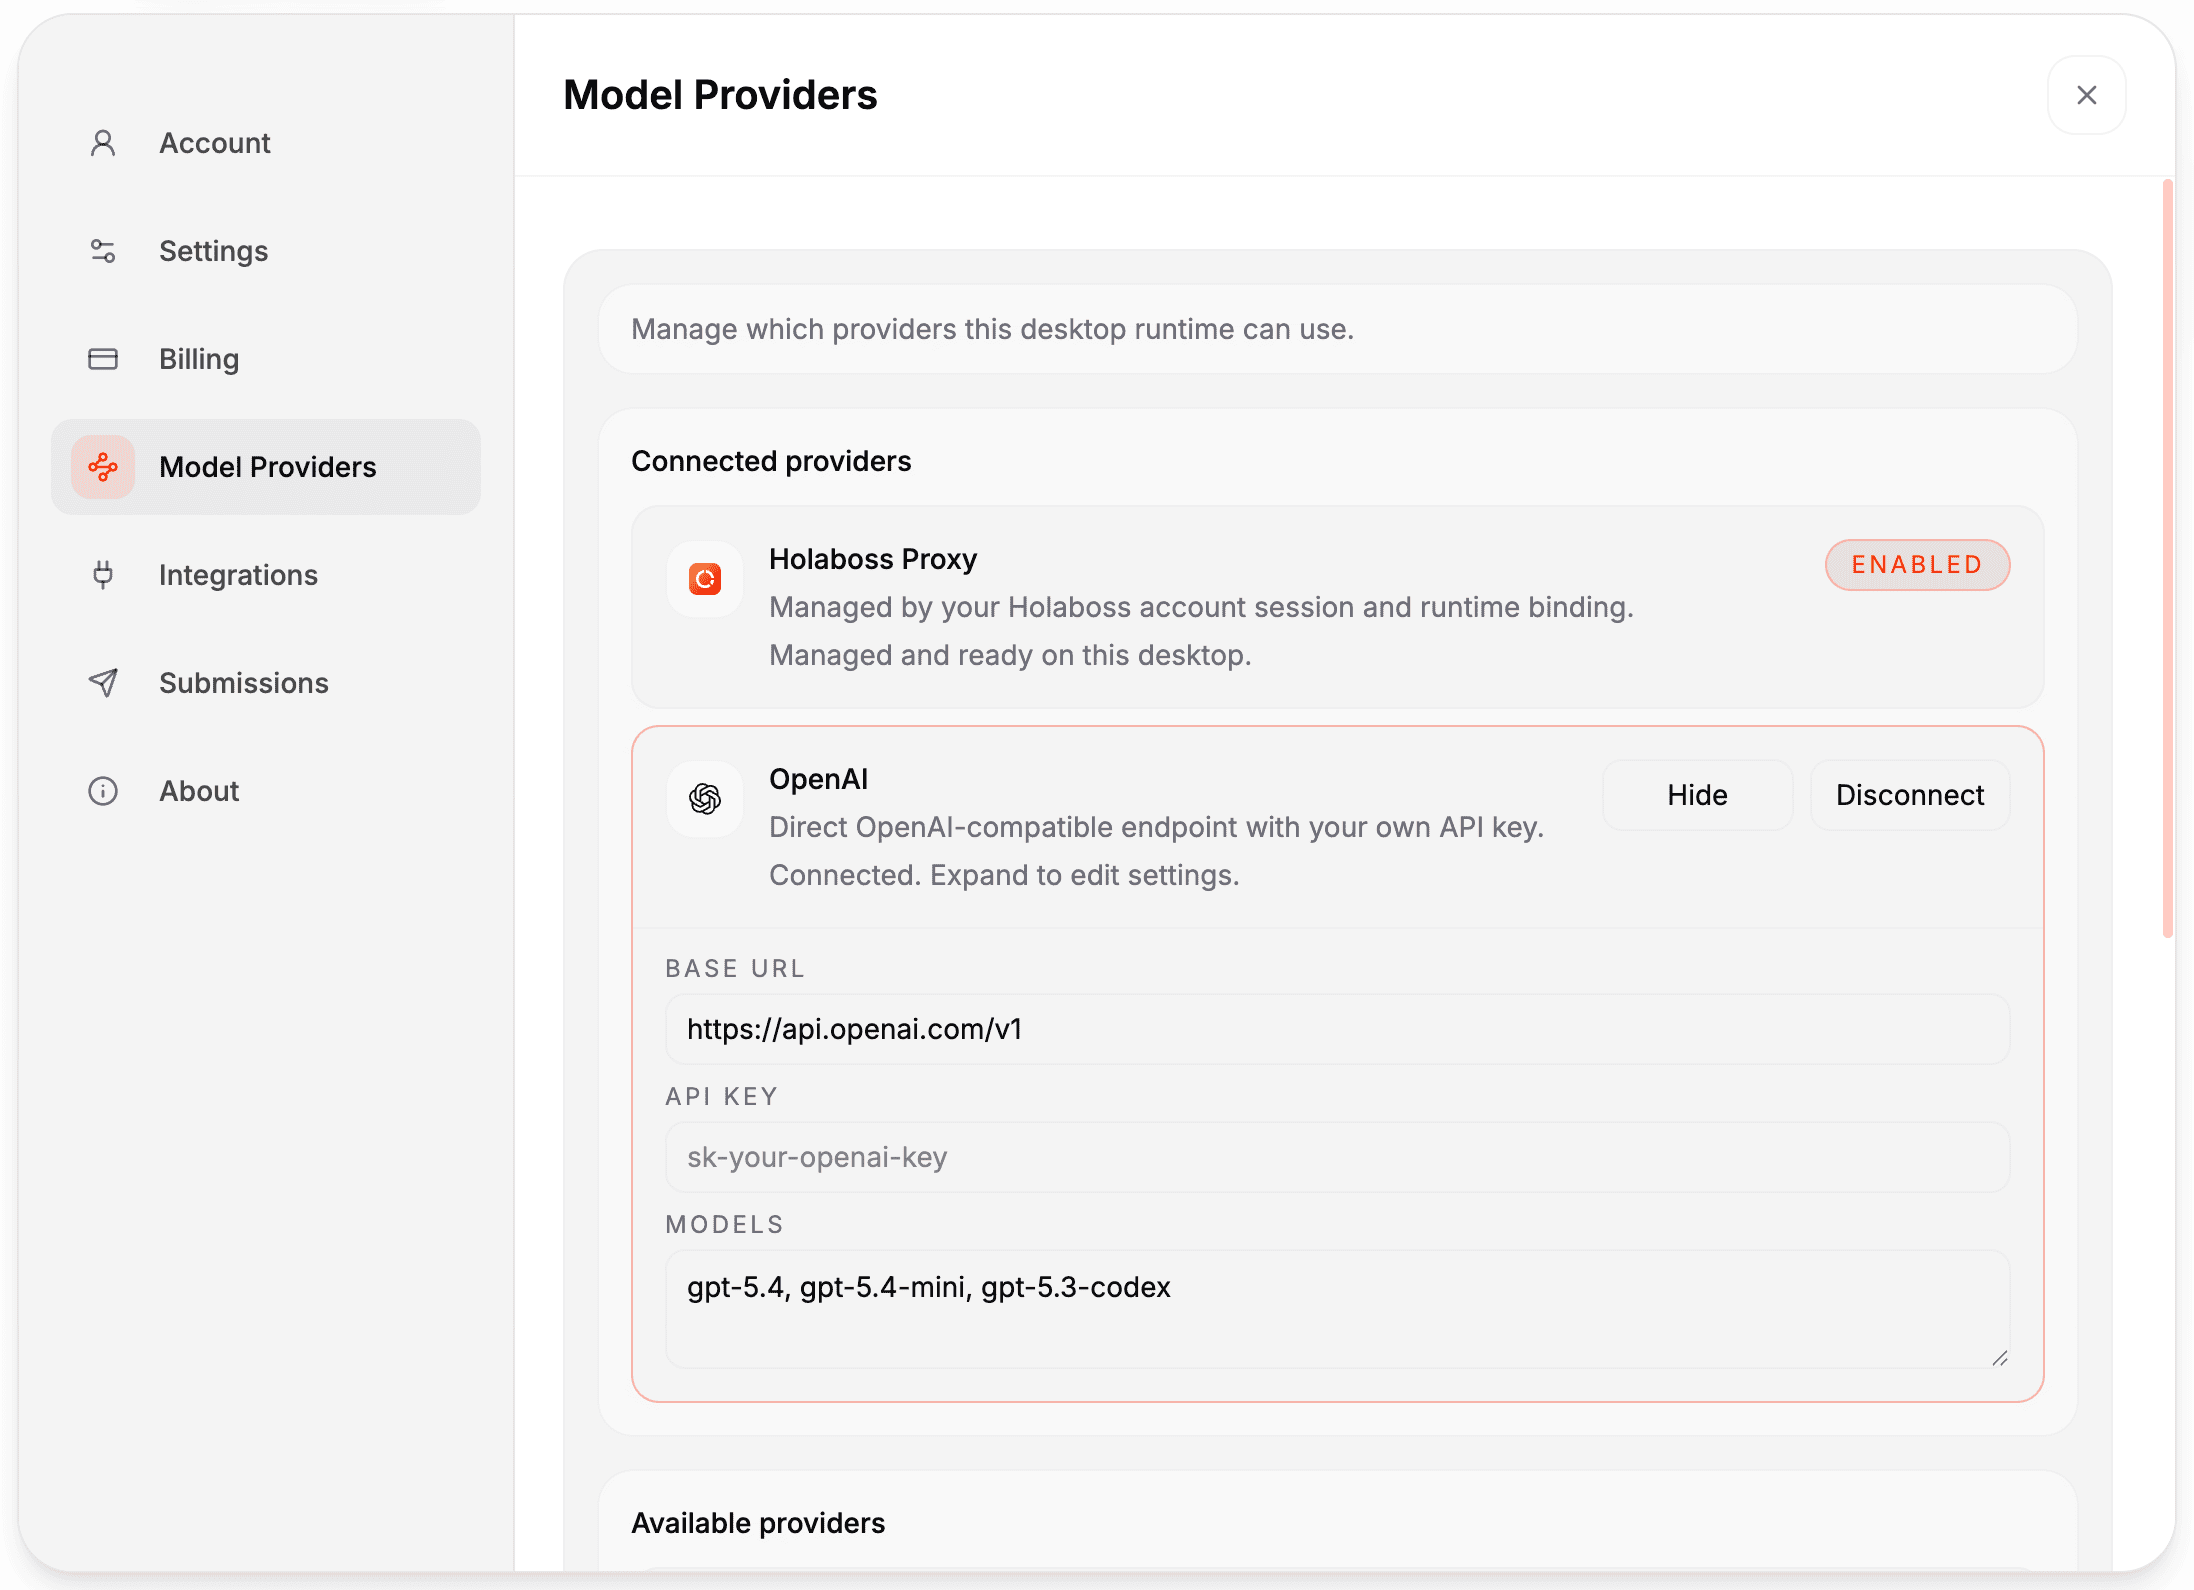
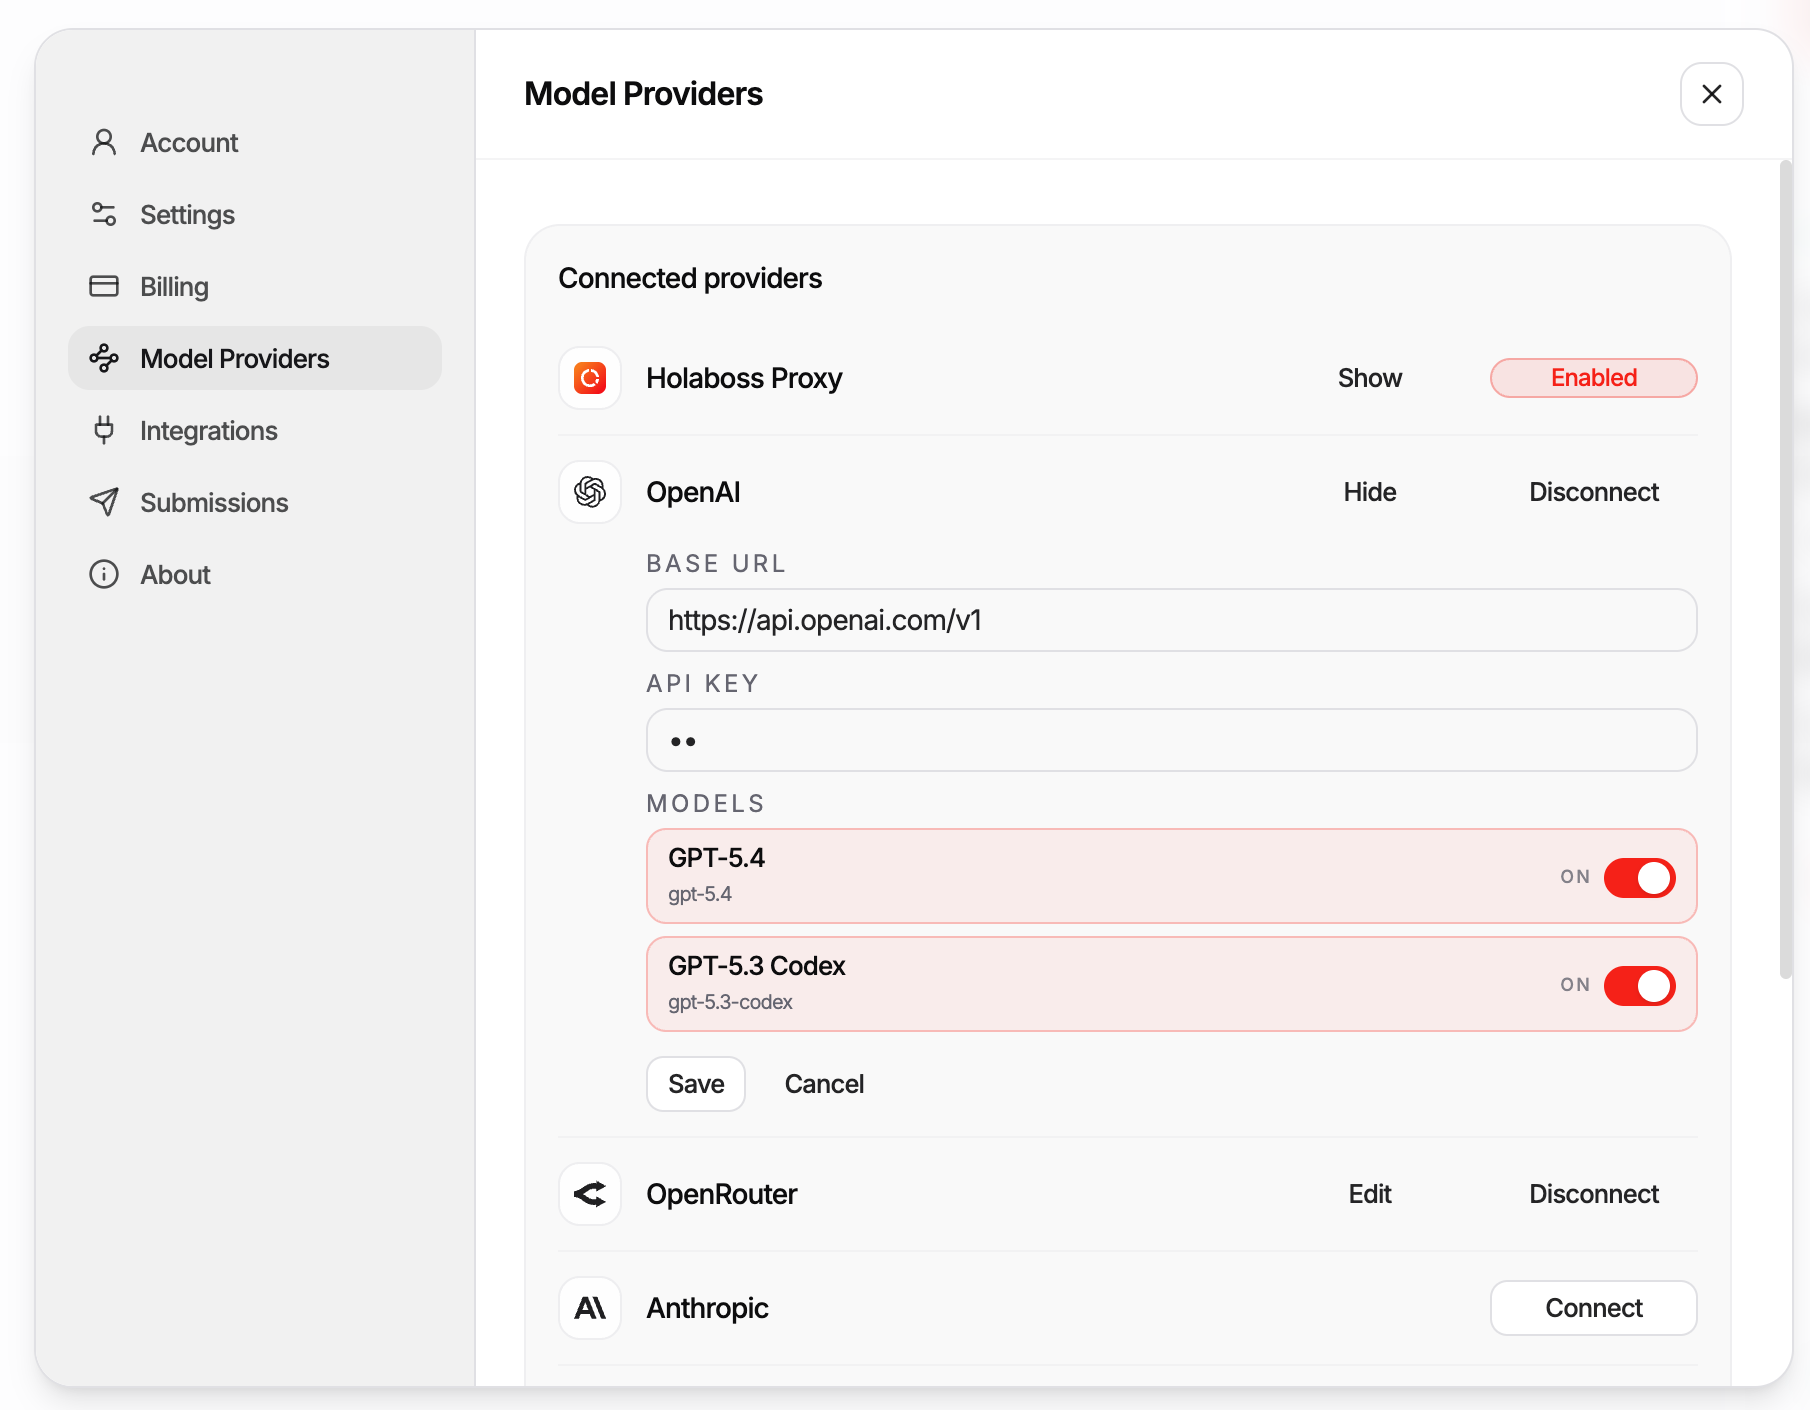
docs: align build-on docs structure with sidebar layout
- move desktop workspace experience and model configuration under build-on-holaos/desktop so the filesystem matches the visible sidebar structure
- move runtime APIs and independent deploy under build-on-holaos/runtime and update internal links, navigation, and docs assertions to the new paths
- keep the desktop internals catalog-edit guidance with the new structure and refresh the model settings screenshot asset in the docs bundle
- Validation: npm run docs:test
- Validation: npm run docs:typecheck
- Validation: npm run docs:build

diff --git a/website/docs/docs/.vitepress/config.ts b/website/docs/docs/.vitepress/config.ts
@@ -130,7 +130,11 @@ export default defineConfig({
             items: [
               {
                 text: "Workspace Experience",
-                link: "/desktop/workspace-experience",
+                link: "/build-on-holaos/desktop/workspace-experience",
+              },
+              {
+                text: "Model Configuration",
+                link: "/build-on-holaos/desktop/model-configuration",
               },
               {
                 text: "Desktop Internals",
@@ -142,7 +146,7 @@ export default defineConfig({
             text: "Runtime",
             collapsed: true,
             items: [
-              { text: "Runtime APIs", link: "/build-on-holaos/runtime-apis" },
+              { text: "Runtime APIs", link: "/build-on-holaos/runtime/apis" },
               {
                 text: "Run Compilation",
                 link: "/build-on-holaos/runtime/run-compilation",
@@ -153,7 +157,7 @@ export default defineConfig({
               },
               {
                 text: "Independent Deploy",
-                link: "/build-on-holaos/independent-deploy",
+                link: "/build-on-holaos/runtime/independent-deploy",
               },
             ],
           },
@@ -161,10 +165,6 @@ export default defineConfig({
             text: "Agent Harness",
             collapsed: true,
             items: [
-              {
-                text: "Model Configuration",
-                link: "/desktop/model-configuration",
-              },
               {
                 text: "Internals and Contracts",
                 link: "/build-on-holaos/agent-harness/internals",

diff --git a/website/docs/docs/build-on-holaos/desktop/internals.md b/website/docs/docs/build-on-holaos/desktop/internals.md
@@ -177,6 +177,64 @@ await window.electronAPI.workspace.queueSessionInput({
 });
 ```
 
+### Adding or modifying shipped catalog entries
+
+Use `desktop/shared/model-catalog.ts` when you need the desktop to know more than a raw model id:
+
+- display label
+- whether the model supports reasoning
+- which `thinking_value` options the composer should show
+- default thinking value
+- supported input modalities
+
+Do not edit the shipped catalog just to connect a provider or type a custom model into `runtime-config.json`. Configured models can still appear through `providerModelGroups`; the catalog is the fallback metadata layer that makes those models feel first-class in the desktop UI.
+
+Representative local catalog entry:
+
+```ts
+export const PROVIDER_MODEL_CATALOG = {
+  openrouter_direct: {
+    source: "local",
+    models: [
+      {
+        model_id: "qwen/qwen3.6-plus",
+        label: "Qwen 3.6 Plus",
+        reasoning: true,
+        thinking_values: ["minimal", "low", "medium", "high"],
+        default_thinking_value: "medium",
+        input_modalities: ["text", "image"],
+      },
+    ],
+  },
+};
+```
+
+When `AuthPanel.tsx` writes configured models back into `runtime-config.json`, it projects the catalog metadata onto that model entry:
+
+```ts
+nextModels[token] = {
+  provider: providerId,
+  model: modelId,
+  ...(modelCatalog.catalogConfigShapeForProviderModel(
+    providerId,
+    modelId,
+  ) ?? {}),
+};
+```
+
+If a Holaboss-managed proxy model should inherit local fallback metadata, also update the proxy mapping rules in `mappedHolabossProxyProviderModel(...)`:
+
+```ts
+if (/^gpt-5(?:[.-]|$)/i.test(normalizedModelId)) {
+  return { providerId: "openai_direct", modelId: normalizedModelId };
+}
+if (/^claude-/i.test(normalizedModelId)) {
+  return { providerId: "anthropic_direct", modelId: normalizedModelId };
+}
+```
+
+That is how a managed proxy model like `gpt-5.4` or `claude-sonnet-4-6` can still light up the desktop reasoning selector even if the control plane catalog did not provide explicit `thinking_values`.
+
 ## File explorer contract
 
 The file explorer goes through the `fs:*` IPC namespace rather than reading files directly from the renderer.

diff --git a/website/docs/docs/build-on-holaos/index.md b/website/docs/docs/build-on-holaos/index.md
@@ -42,7 +42,7 @@ If you skip step one, later runtime or app failures are harder to interpret beca
   <DocCard
     title="Runtime APIs"
     eyebrow="Server Surface"
-    href="/build-on-holaos/runtime-apis"
+    href="/build-on-holaos/runtime/apis"
     description="Work from the actual Fastify routes, streaming endpoints, and runtime tests instead of inferred API summaries."
   />
   <DocCard
@@ -86,6 +86,6 @@ npm run sdk:bridge:test
 ## Read By Subsystem
 
 - desktop contributors should start with [Start Developing](/build-on-holaos/start-developing/) and [Desktop Internals](/build-on-holaos/desktop/internals)
-- runtime contributors should start with [Runtime APIs](/build-on-holaos/runtime-apis), [Run Compilation](/build-on-holaos/runtime/run-compilation), [Runtime State Store](/build-on-holaos/runtime/state-store), and [Independent Deploy](/build-on-holaos/independent-deploy)
+- runtime contributors should start with [Runtime APIs](/build-on-holaos/runtime/apis), [Run Compilation](/build-on-holaos/runtime/run-compilation), [Runtime State Store](/build-on-holaos/runtime/state-store), and [Independent Deploy](/build-on-holaos/runtime/independent-deploy)
 - app developers should start with [App Anatomy](/app-development/applications/app-anatomy), [Build Your First App](/app-development/applications/first-app), and [app.runtime.yaml](/app-development/applications/app-runtime-yaml)
 - template authors should start with [Template Materialization](/templates/materialization), [Template Structure](/templates/structure), and [Template Versioning](/templates/versioning)

diff --git a/website/docs/docs/build-on-holaos/start-developing/index.md b/website/docs/docs/build-on-holaos/start-developing/index.md
@@ -110,4 +110,4 @@ The normal dev loop is GUI-dependent. If Electron cannot start in your environme
 
 ## Next
 
-If you are changing the Electron shell, continue to [Desktop Internals](/build-on-holaos/desktop/internals). If you are changing the runtime HTTP surface, continue to [Runtime APIs](/build-on-holaos/runtime-apis). If you are changing the harness path or executor boundary, continue to [Agent Harness Internals](/build-on-holaos/agent-harness/internals). For validation and PR expectations, continue to [Contributing](/build-on-holaos/start-developing/contributing).
+If you are changing the Electron shell, continue to [Desktop Internals](/build-on-holaos/desktop/internals). If you are changing the runtime HTTP surface, continue to [Runtime APIs](/build-on-holaos/runtime/apis). If you are changing the harness path or executor boundary, continue to [Agent Harness Internals](/build-on-holaos/agent-harness/internals). For validation and PR expectations, continue to [Contributing](/build-on-holaos/start-developing/contributing).

diff --git a/website/docs/docs/build-on-holaos/desktop/model-configuration.md b/website/docs/docs/build-on-holaos/desktop/model-configuration.md
@@ -4,7 +4,7 @@
 
 Holaboss ships with a default model setup. In most cases, you do not need to edit `runtime-config.json` by hand, because the desktop app already exposes the main configuration surfaces for provider connection, managed model catalogs, background tasks, recall embeddings, and image generation.
 
-This page is the configuration reference for operators and builders. For the Electron IPC path, runtime model-catalog refresh flow, queued `thinking_value` handoff, and other execution internals, continue into [Desktop Internals](/build-on-holaos/desktop/internals) and [Runtime APIs](/build-on-holaos/runtime-apis).
+This page is the configuration reference for operators and builders. For the Electron IPC path, runtime model-catalog refresh flow, queued `thinking_value` handoff, and other execution internals, continue into [Desktop Internals](/build-on-holaos/desktop/internals) and [Runtime APIs](/build-on-holaos/runtime/apis).
 
 The baseline defaults are:
 

diff --git a/website/docs/docs/getting-started/learning-path.md b/website/docs/docs/getting-started/learning-path.md
@@ -22,7 +22,7 @@ Read [Workspace Model](/holaos/workspace-model) and [Memory and Continuity](/hol
   </DocStep>
   <DocStep title="Understand the execution boundary">
 
-Read [Agent Harness](/holaos/agent-harness/) and [Runtime APIs](/build-on-holaos/runtime-apis) to see what the runtime passes into the executor and which operational surfaces exist around it.
+Read [Agent Harness](/holaos/agent-harness/) and [Runtime APIs](/build-on-holaos/runtime/apis) to see what the runtime passes into the executor and which operational surfaces exist around it.
 
   </DocStep>
   <DocStep title="Start developing locally">

diff --git a/website/docs/docs/build-on-holaos/desktop/workspace-experience.md b/website/docs/docs/build-on-holaos/desktop/workspace-experience.md
@@ -83,6 +83,6 @@ The workspace UI sits above several deeper contracts:
 
 - [Workspace Model](/holaos/workspace-model) for the authored and runtime-owned structure
 - [Memory and Continuity](/holaos/memory-and-continuity/) for what persists and what resumes
-- [Model Configuration](/desktop/model-configuration) for provider and model controls
+- [Model Configuration](/build-on-holaos/desktop/model-configuration) for provider and model controls
 
 The UI should expose those layers clearly without collapsing them into one undifferentiated screen.

diff --git a/website/docs/docs/holaos/environment-engineering.md b/website/docs/docs/holaos/environment-engineering.md
@@ -131,7 +131,7 @@ That shift is what makes the system easier to inspect, package, resume, and exte
   <DocCard
     title="Runtime APIs"
     eyebrow="Runtime Surface"
-    href="/build-on-holaos/runtime-apis"
+    href="/build-on-holaos/runtime/apis"
     description="Inspect the server surface that exposes workspaces, runs, memory, and app orchestration."
   />
   <DocCard
